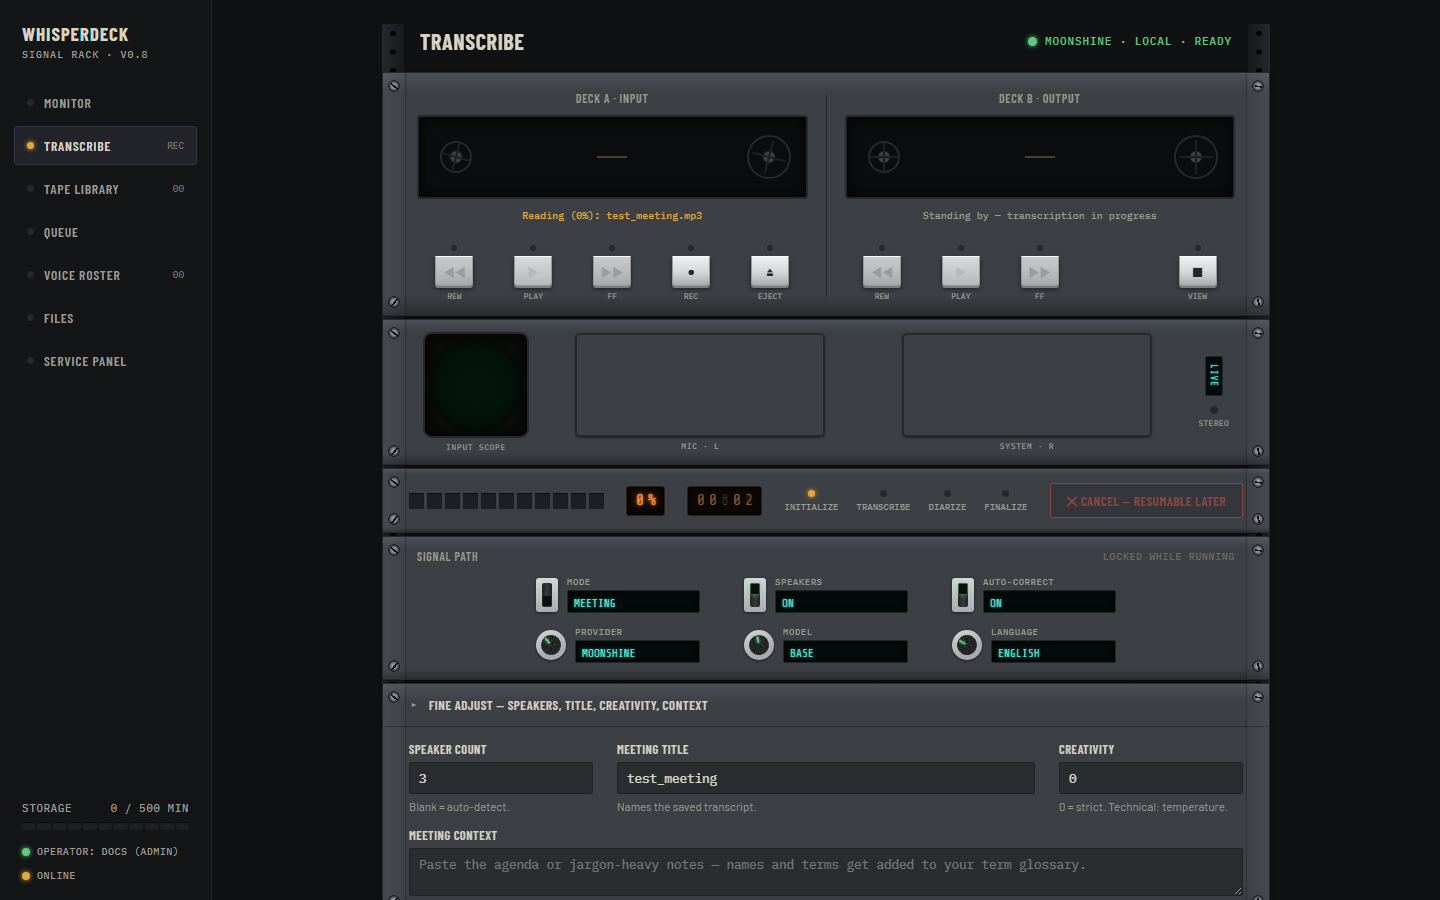
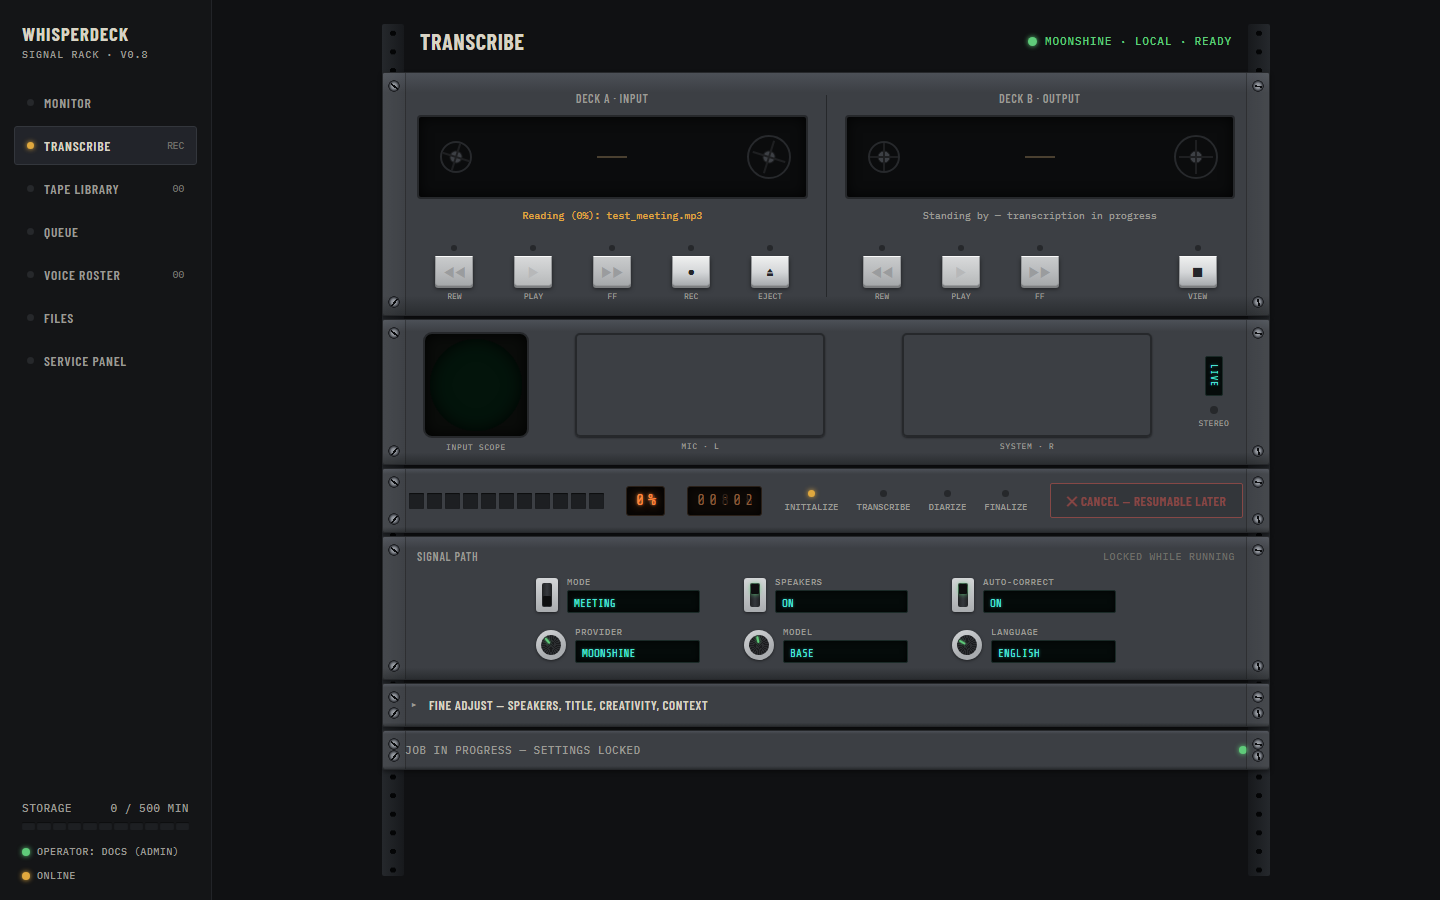
fix: address PR #99 review - version-compare truncation, queue/service-panel screenshots
- static/rack.js: fix compare-versions modal dropdowns overflowing their
  flex row (missing min-width:0 on <select>, a common flexbox pitfall) -
  the second dropdown was rendering truncated
- docs/USER-MANUAL.md: reword the 15-version-compare caption; the compare
  view is a unified inline diff, not a side-by-side view
- scripts/capture_screenshots.py:
  - collapse Fine Adjust before the 02-transcribe capture (was left open,
    pushing content below the fold)
  - queue a summary job alongside the auto-triggered correction job so
    06-queue.png shows more than one job kind/state
  - capture 08-service-panel.png full-page so the Faceplate/Phosphor/Motion
    controls (previously below the fold) are included
- regenerate the affected screenshots plus incidental re-timestamps from
  the full pipeline rerun (05, 12, 13, 14 - content unchanged)

diff --git a/static/rack.js b/static/rack.js
@@ -2908,8 +2908,8 @@ async function openCompareModal(title, fetchItems, extractText, renderDiff) {
   openModal(`
     <h2 class="modal-title">${escapeHtml(title)}</h2>
     <div style="display:flex;gap:10px;margin-bottom:14px">
-      <select id="compare-item-a" class="inp" style="flex:1;font-size:12px;padding:8px 10px">${optionHtml}</select>
-      <select id="compare-item-b" class="inp" style="flex:1;font-size:12px;padding:8px 10px">${optionHtml}</select>
+      <select id="compare-item-a" class="inp" style="flex:1;min-width:0;font-size:12px;padding:8px 10px">${optionHtml}</select>
+      <select id="compare-item-b" class="inp" style="flex:1;min-width:0;font-size:12px;padding:8px 10px">${optionHtml}</select>
     </div>
     <div id="compare-diff-out" style="max-height:50vh;overflow:auto;font-size:13px;line-height:1.6;white-space:pre-wrap;padding:10px;border:1px solid var(--inset-edge)"></div>
     <div style="display:flex;justify-content:flex-end;margin-top:14px">

diff --git a/scripts/capture_screenshots.py b/scripts/capture_screenshots.py
@@ -312,6 +312,8 @@ with sync_playwright() as p:
     pg.wait_for_timeout(300)
     pg.fill("#tx-title", "test_meeting")
     pg.fill("#tx-speakers", "3")
+    pg.locator("summary:has-text('Fine adjust')").click()  # collapse - keep 02-transcribe.png uncluttered
+    pg.wait_for_timeout(300)
     pg.set_input_files("#file-input", SHORT_AUDIO)
     pg.wait_for_timeout(800)
     # Re-assert right before starting in case loading the file reset anything.
@@ -330,8 +332,15 @@ with sync_playwright() as p:
     pg.wait_for_selector('[id^="page-"].active', timeout=10000)
     pg.wait_for_timeout(1000)
 
-    # 5. Queue: catch the correction job while it's still running - non-error
-    #    state either way, since the backend configured above always succeeds.
+    # Queue a summary pass alongside the auto-triggered correction pass, so
+    # the Queue screen below shows more than one job kind/state at once.
+    summarize_btn = pg.locator('[data-dact="summarize"]')
+    if summarize_btn.count() > 0 and summarize_btn.first.is_enabled():
+        summarize_btn.first.click()
+        pg.wait_for_timeout(300)
+
+    # 5. Queue: catch the correction + summary jobs while still running/queued -
+    #    non-error state either way, since the backend configured above always succeeds.
     pg.evaluate("navigate('queue')")
     pg.wait_for_timeout(1200)
     pg.screenshot(path=os.path.join(OUT_DIR, "06-queue.png"))
@@ -368,8 +377,8 @@ with sync_playwright() as p:
     pg.evaluate("navigate('settings')")
     pg.wait_for_selector("#page-settings .unit--svc", state="visible", timeout=10000)
     pg.wait_for_timeout(500)
-    pg.screenshot(path=os.path.join(OUT_DIR, "08-service-panel.png"))
-    print("Captured: 08-service-panel.png")
+    pg.screenshot(path=os.path.join(OUT_DIR, "08-service-panel.png"), full_page=True)
+    print("Captured: 08-service-panel.png (full page, includes Faceplate/Phosphor theme controls below the fold)")
 
     # 9. Hotwords: there's no separate route - crop to just the Term Glossary
     #    widget instead of the full Settings page.

diff --git a/docs/USER-MANUAL.md b/docs/USER-MANUAL.md
@@ -338,7 +338,7 @@ Switch between tabs to compare the original transcript against corrections or su
 
 Every correction, summary, re-diarization, and voice-match run is recorded per transcript. Each pass has its own history button in the transcript detail header - **Compare versions** (re-transcriptions), **Correction history**, **Summary history**, and **Rediarize history** - each opening a diff view to compare any two runs of that pass.
 
-![Compare correction runs - pick two runs from the dropdowns to see their output side by side](../screenshots/15-version-compare.png)
+![Compare correction runs - pick any two runs from the dropdowns; words that changed between them are highlighted](../screenshots/15-version-compare.png)
 
 **Figure 7-3: Comparing two correction runs**
 
